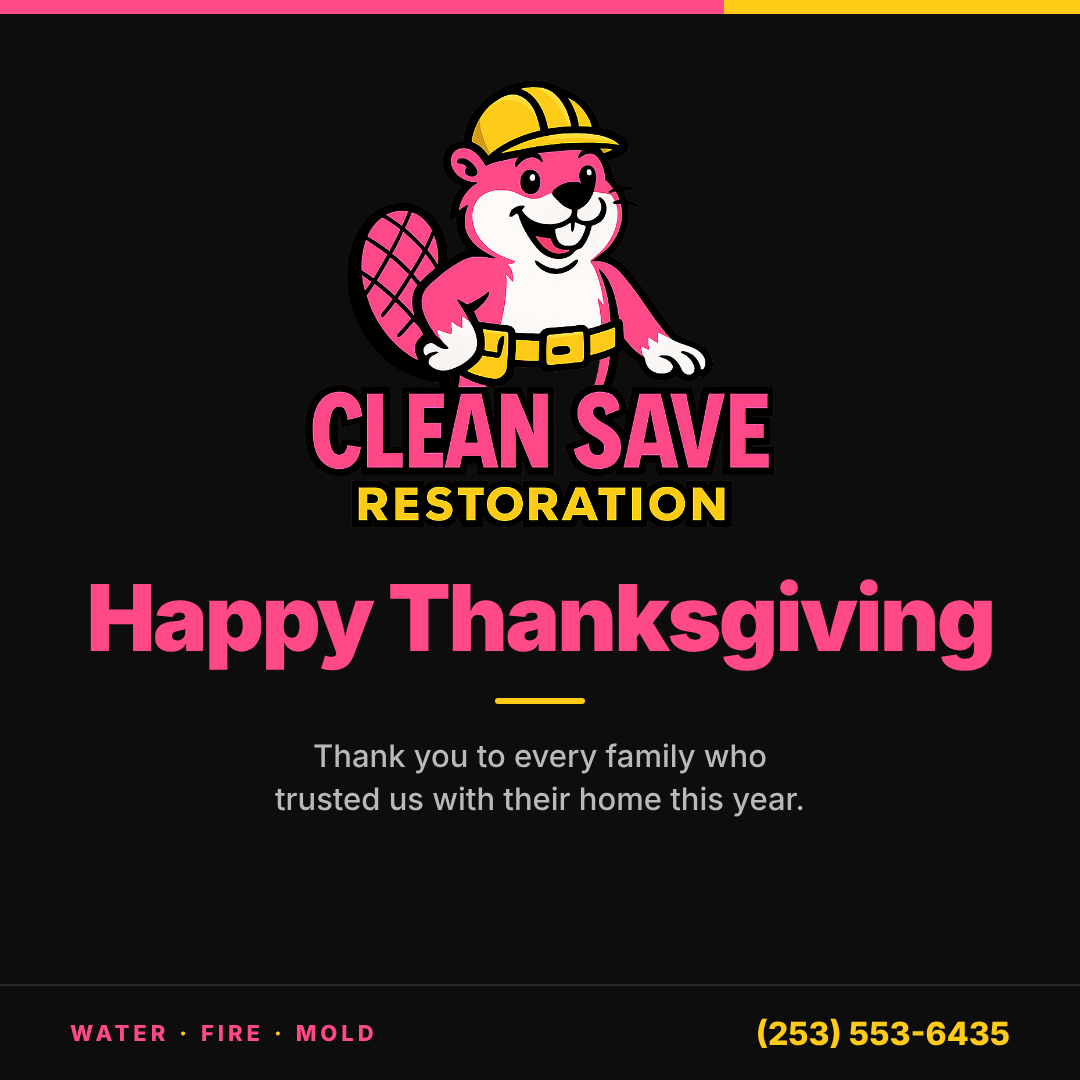
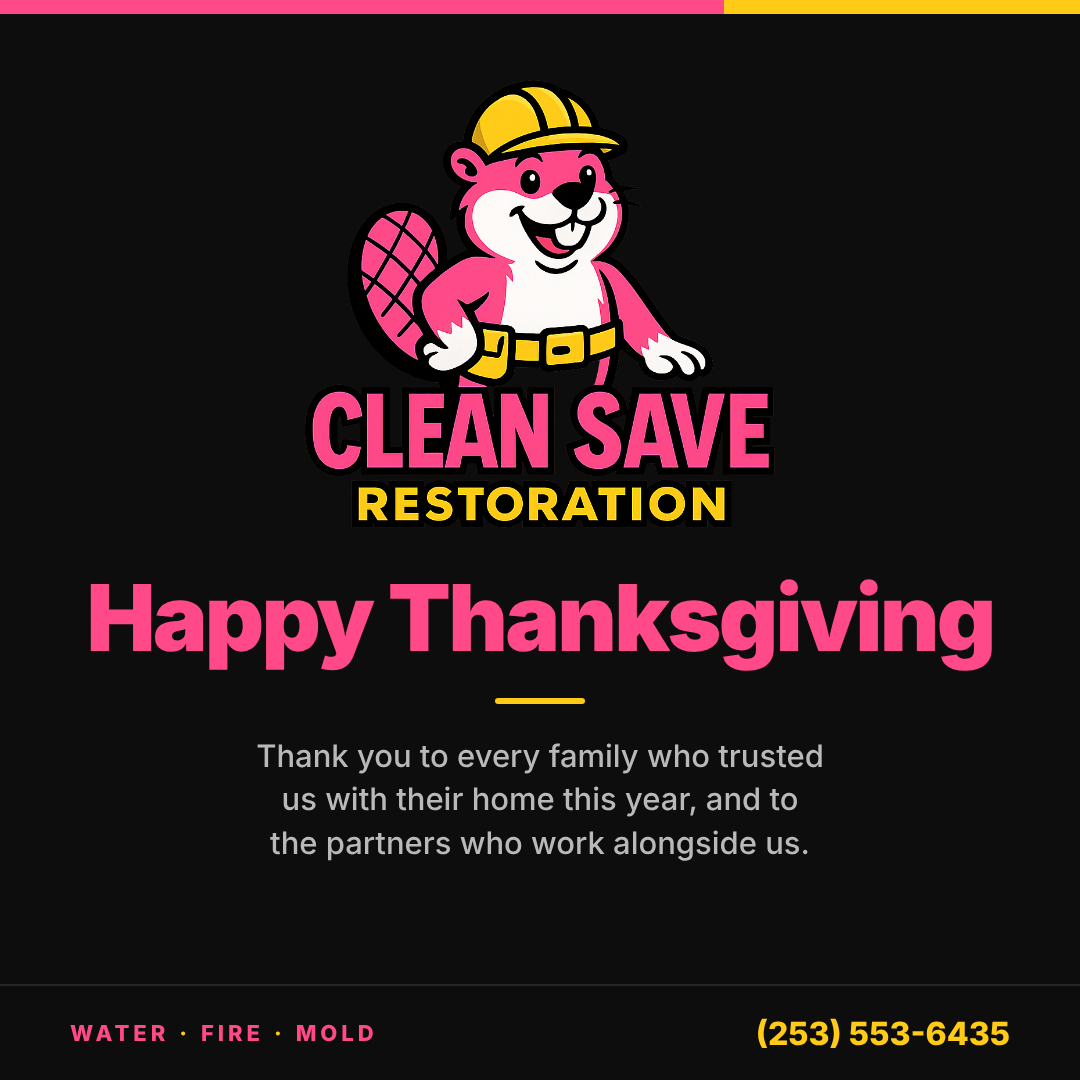
Thanksgiving post: thank partners
Claude-Session: https://claude.ai/code/session_01R2v41eo1Z34kdsdqdnQG7c

Changed region(s): [[0.2444, 0.6722, 0.7639, 0.7944]]

diff --git a/social/thanksgiving-2026.html b/social/thanksgiving-2026.html
@@ -20,7 +20,7 @@ h1{font-weight:900;font-size:92px;line-height:1;letter-spacing:-.03em;color:var(
 <img class="logo" src="clean-save-logo.png" alt="Clean Save Restoration">
 <h1>Happy Thanksgiving</h1>
 <div class="rule"></div>
-<p class="lede">Thank you to every family who trusted us with their home this year.</p>
+<p class="lede">Thank you to every family who trusted us with their home this year, and to the partners who work alongside us.</p>
 <footer class="foot">
  <div class="svc">Water<b>·</b>Fire<b>·</b>Mold</div>
  <div class="phone">(253) 553-6435</div>
